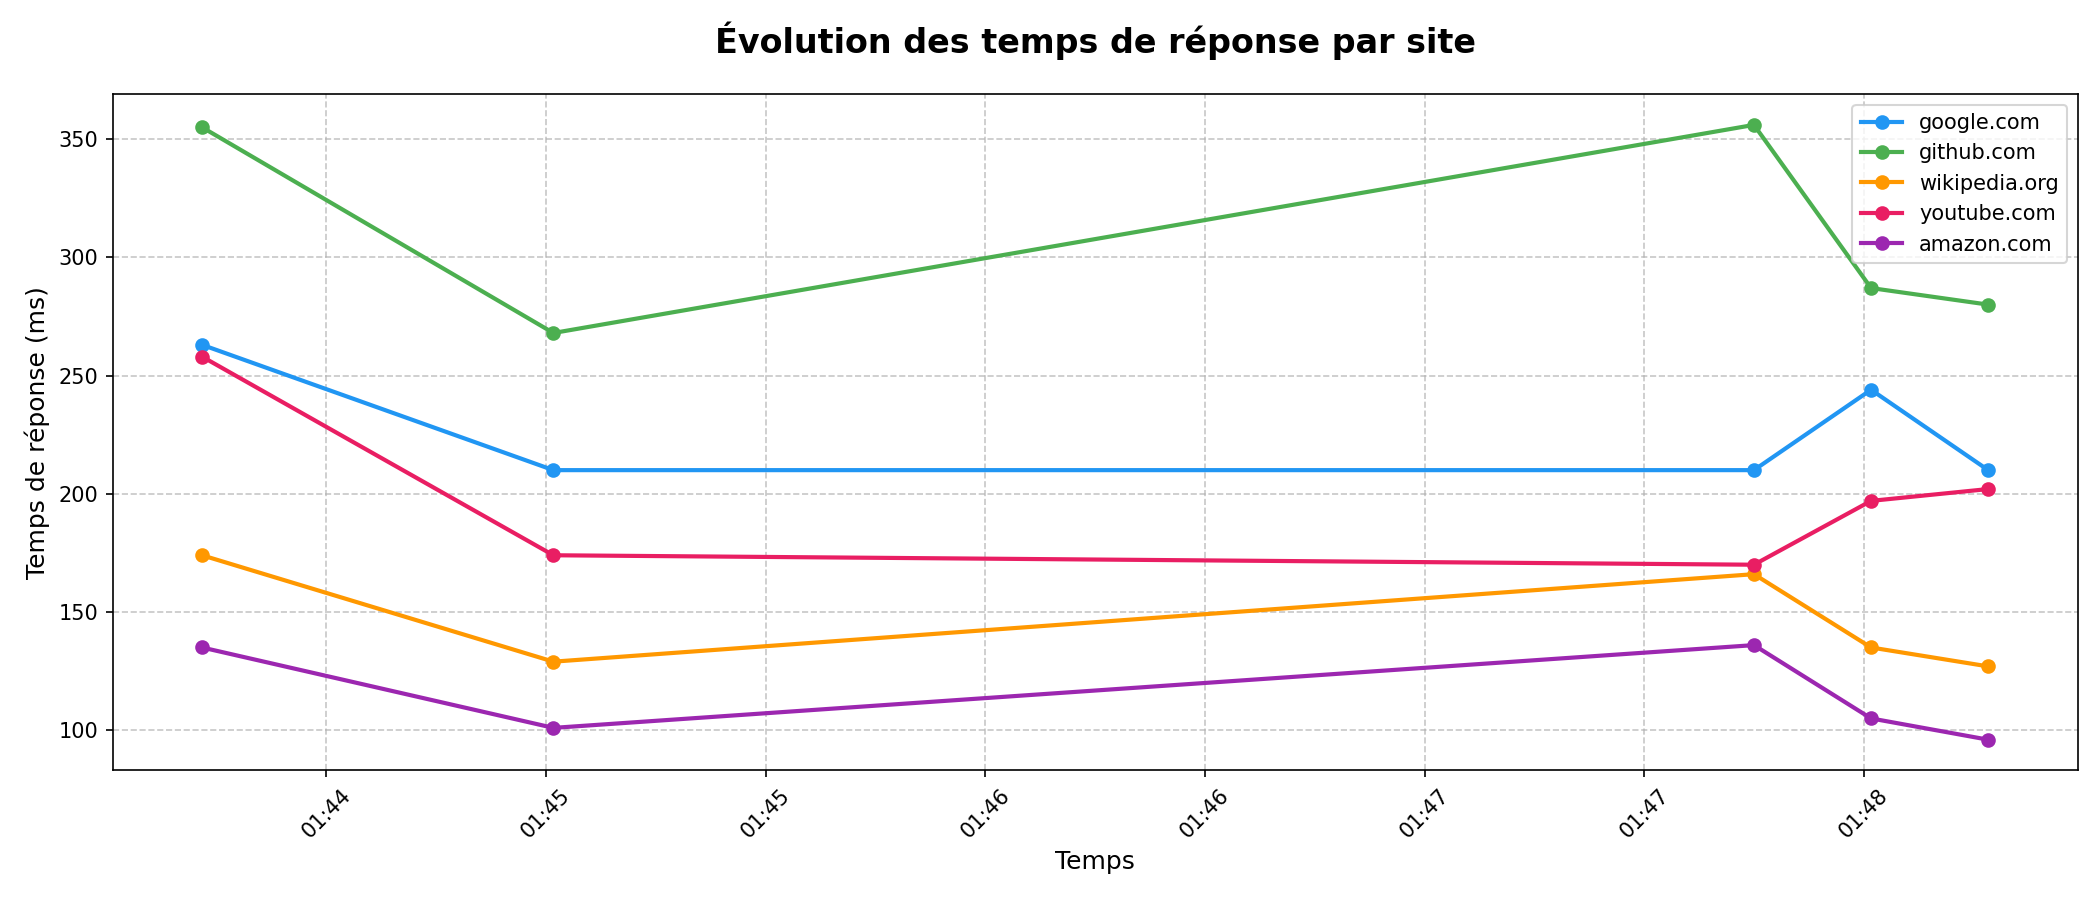
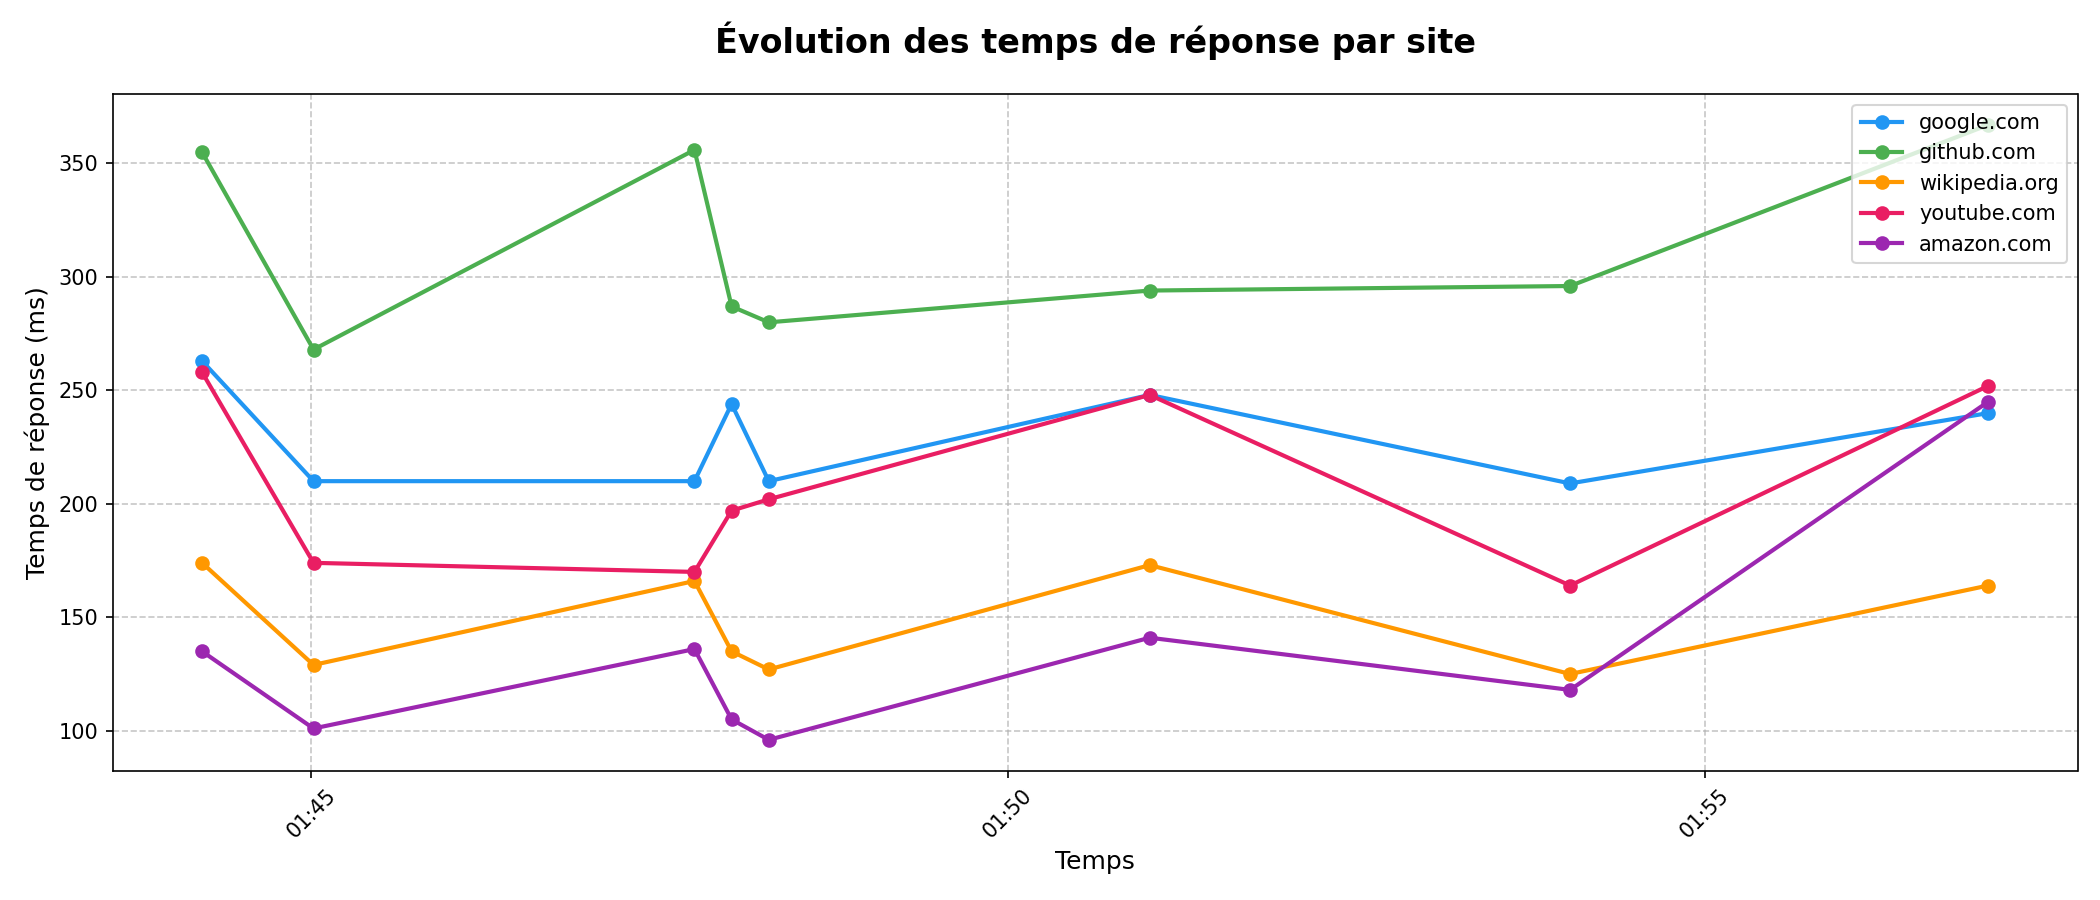
README final + graphique cron - 300150275

diff --git a/8.Project/300150275/README.md b/8.Project/300150275/README.md
@@ -9,7 +9,7 @@
 
 ## 📋 Description
 
-Ce projet surveille la disponibilité de plusieurs sites web, mesure leur temps de réponse et génère un rapport automatique via un script Bash et Python.
+Ce projet surveille automatiquement la disponibilité et le temps de réponse de 5 sites web toutes les **3 minutes** via un cron job. Les données sont collectées en CSV, analysées avec Python et visualisées avec matplotlib.
 
 ---
 
@@ -18,13 +18,16 @@ Ce projet surveille la disponibilité de plusieurs sites web, mesure leur temps 
 300150275/
 ├── scripts/
 │   ├── analyse.sh       # Script Bash principal
-│   └── analyse.py       # Script Python d'analyse
+│   └── analyse.py       # Script Python de collecte
 ├── data/
-│   └── sample.log       # Logs générés automatiquement
+│   └── monitoring.csv   # Données collectées automatiquement
 ├── output/
-│   └── rapport.txt      # Rapport généré automatiquement
+│   ├── rapport.txt               # Rapport texte
+│   ├── graphique_evolution.png   # Évolution des temps de réponse
+│   └── graphique_cron.png        # Preuve du fonctionnement du cron
+├── images/              # Captures d'écran
 ├── RAPPORT.ipynb        # Rapport Jupyter avec visualisations
-└── README.md            # Instructions et explications
+└── README.md            # Ce fichier
 ```
 
 ---
@@ -50,43 +53,50 @@ bash scripts/analyse.sh
 
 ---
 
-## 📊 3. Rapport généré
+## ⏰ 3. Automatisation avec Cron
+
+Le script s'exécute automatiquement toutes les **3 minutes** grâce au cron :
 ```bash
-cat output/rapport.txt
+*/3 * * * * bash /home/ubuntu/INF1102-201-26H-05/8.Project/300150275/scripts/analyse.sh
 ```
+
+![Collectes Cron](output/graphique_cron.png)
+
+---
+
+## 📊 4. Rapport généré
 
 ![Rapport](images/03_rapport.png)
 
 ---
 
-## 🚀 4. Push sur GitHub
-```bash
-git add 8.Projet/300150275/
-git commit -m "Ajout Projet Monitoring - 300150275"
-git push
-```
+## 📈 5. Évolution des temps de réponse
+
+![Évolution](output/graphique_evolution.png)
+
+---
+
+## 🚀 6. Push sur GitHub
 
 ![Git Push](images/04_git_push.png)
 
 ---
 
-## 🧠 Sites surveillés
+## 🌐 Sites surveillés
 
-| Site | Code HTTP | Temps | Statut |
-|------|-----------|-------|--------|
-| google.com | 200 | 419ms | ✅ EN LIGNE |
-| github.com | 301 | 370ms | ❌ HORS LIGNE |
-| wikipedia.org | 200 | 566ms | ✅ EN LIGNE |
-| youtube.com | 200 | 430ms | ✅ EN LIGNE |
-| amazon.com | 503 | 294ms | ❌ HORS LIGNE |
+| Site | Description |
+|------|-------------|
+| google.com | Moteur de recherche |
+| github.com | Plateforme de code |
+| wikipedia.org | Encyclopédie en ligne |
+| youtube.com | Plateforme vidéo |
+| amazon.com | E-commerce |
 
 ---
 
-## ✅ Résultats
-## 📈 Graphique d'évolution
+## 🔧 Dépendances
 
-![Évolution des temps de réponse](output/graphique_evolution.png)
-- **3 sites** en ligne sur 5
-- **Temps moyen** : 415ms
-- **Site le plus rapide** : amazon.com (294ms)
-- **Site le plus lent** : wikipedia.org (566ms)
+- Python 3.8+
+- Modules : `pandas`, `matplotlib`, `urllib`
+- Cron (Linux)
+- Jupyter Notebook
